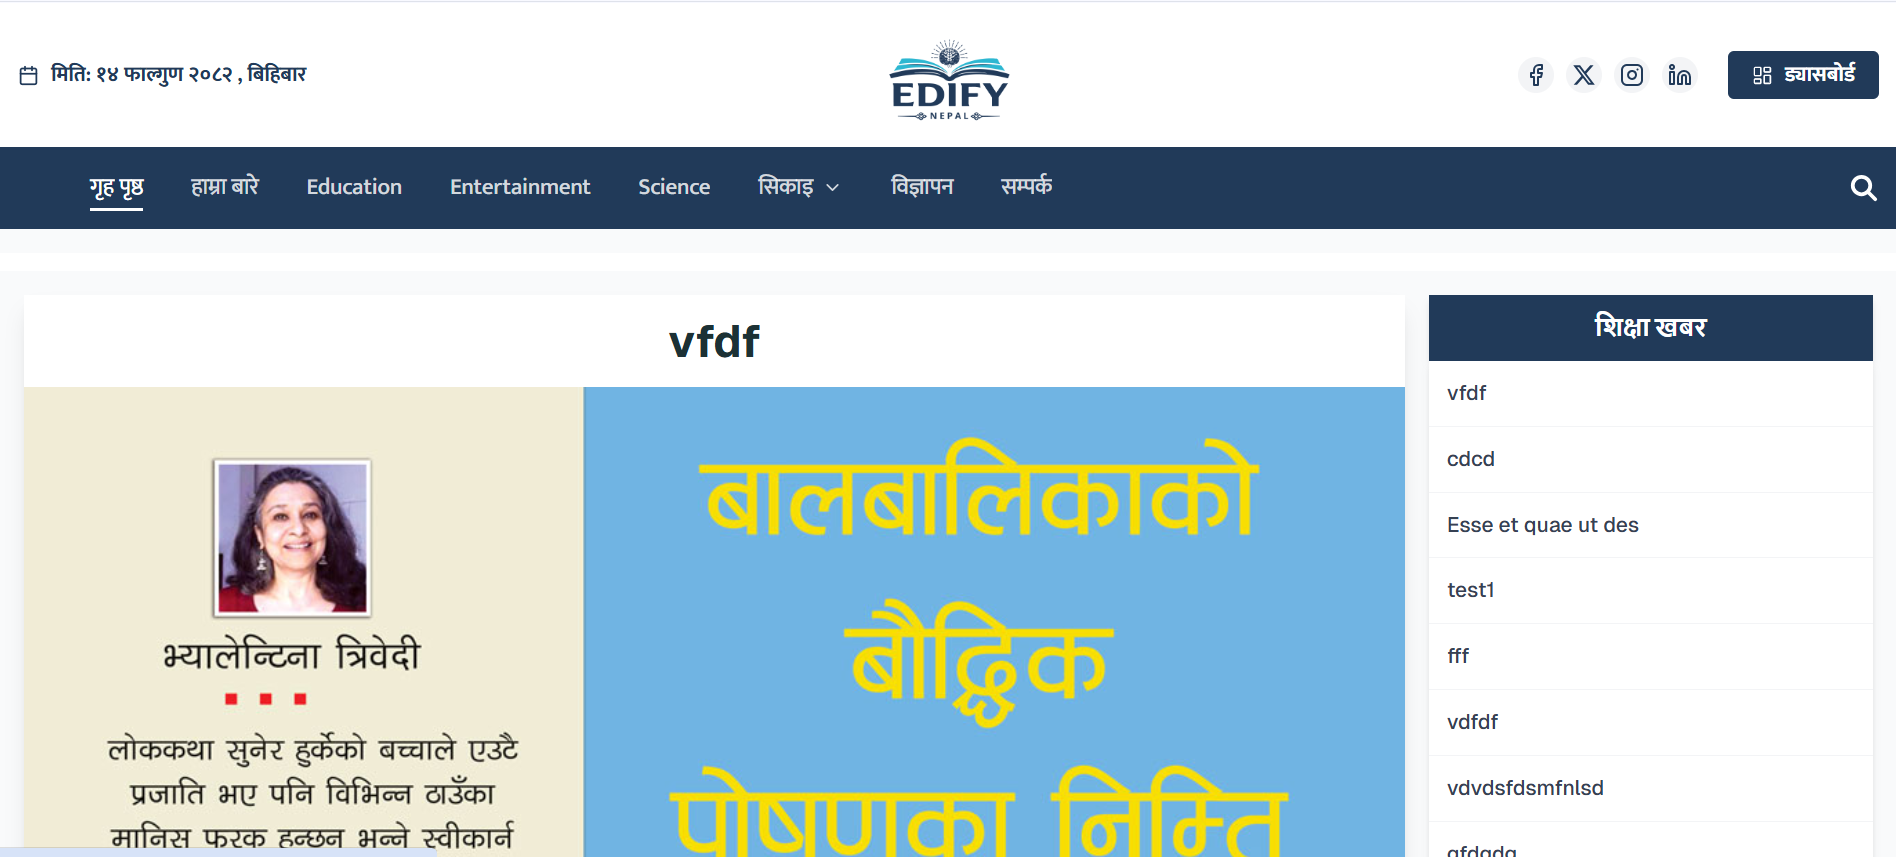
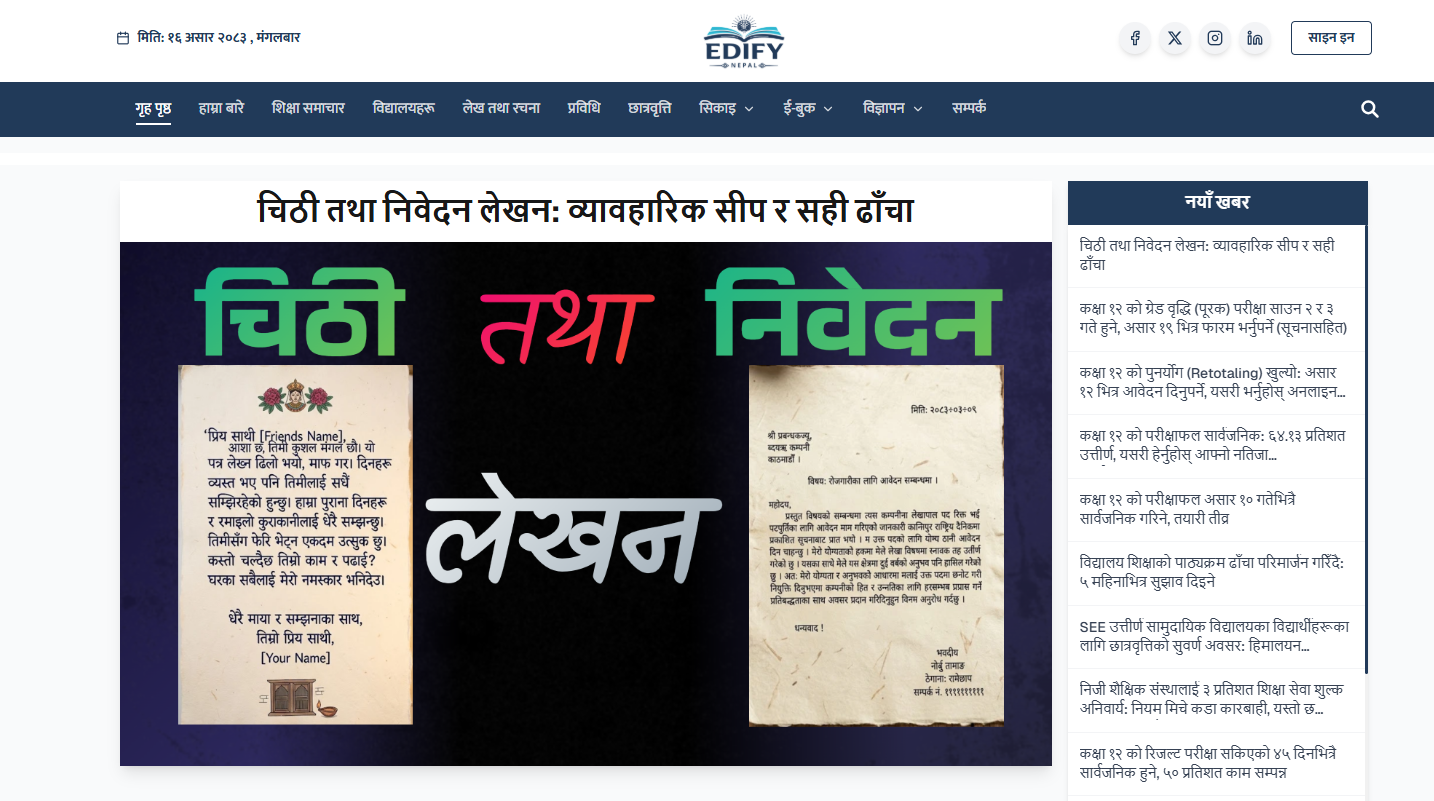
project add

diff --git a/src/app/pages/project/page.tsx b/src/app/pages/project/page.tsx
@@ -22,6 +22,30 @@ const projects = [
     image: "/project/edifynepal.png",
     link: "https://edifynepal.com/",
   },
+    {
+    title: "Arya Tara PVT. LTD.",
+    category: "Career",
+        image: "/project/aryatara.png",
+
+    description: "Aryatara Private Limited is a Japan-based, multi-sector powerhouse delivering innovative technology, business consultancy, and digital solutions to drive global progress and sustainable growth.",
+    link: "https://thearyatara.info/",
+  },
+    {
+    title: "The Mount Curry Point",
+    category: "Restaurant  ",
+    description:
+      "Experience the authentic flavors of India, Nepal, and beyond—scanned, ordered, and served right at your table with our seamless QR-based ordering system.",
+    image: "/project/mountcurry.png",
+    link: "https://mountcurrypoint.com/",
+  },
+     {
+    title: "School Management System",
+    category: "SMS",
+    description:
+      "Optimizes student enrollment workflows and automates daily attendance tracking, ensuring accurate record-keeping and effortless administrative reporting.",
+    image: "/project/sms.png",
+    link: "https://school.edifynepal.com/",
+  },
   {
     title: "Nepal Chunab",
     category: "Election Portal",

diff --git a/src/types.d.ts b/src/types.d.ts
@@ -1,0 +1,3 @@
+declare module '*.css';
+declare module 'bootstrap/dist/css/bootstrap.min.css';
+declare module 'aos/dist/aos.css';
